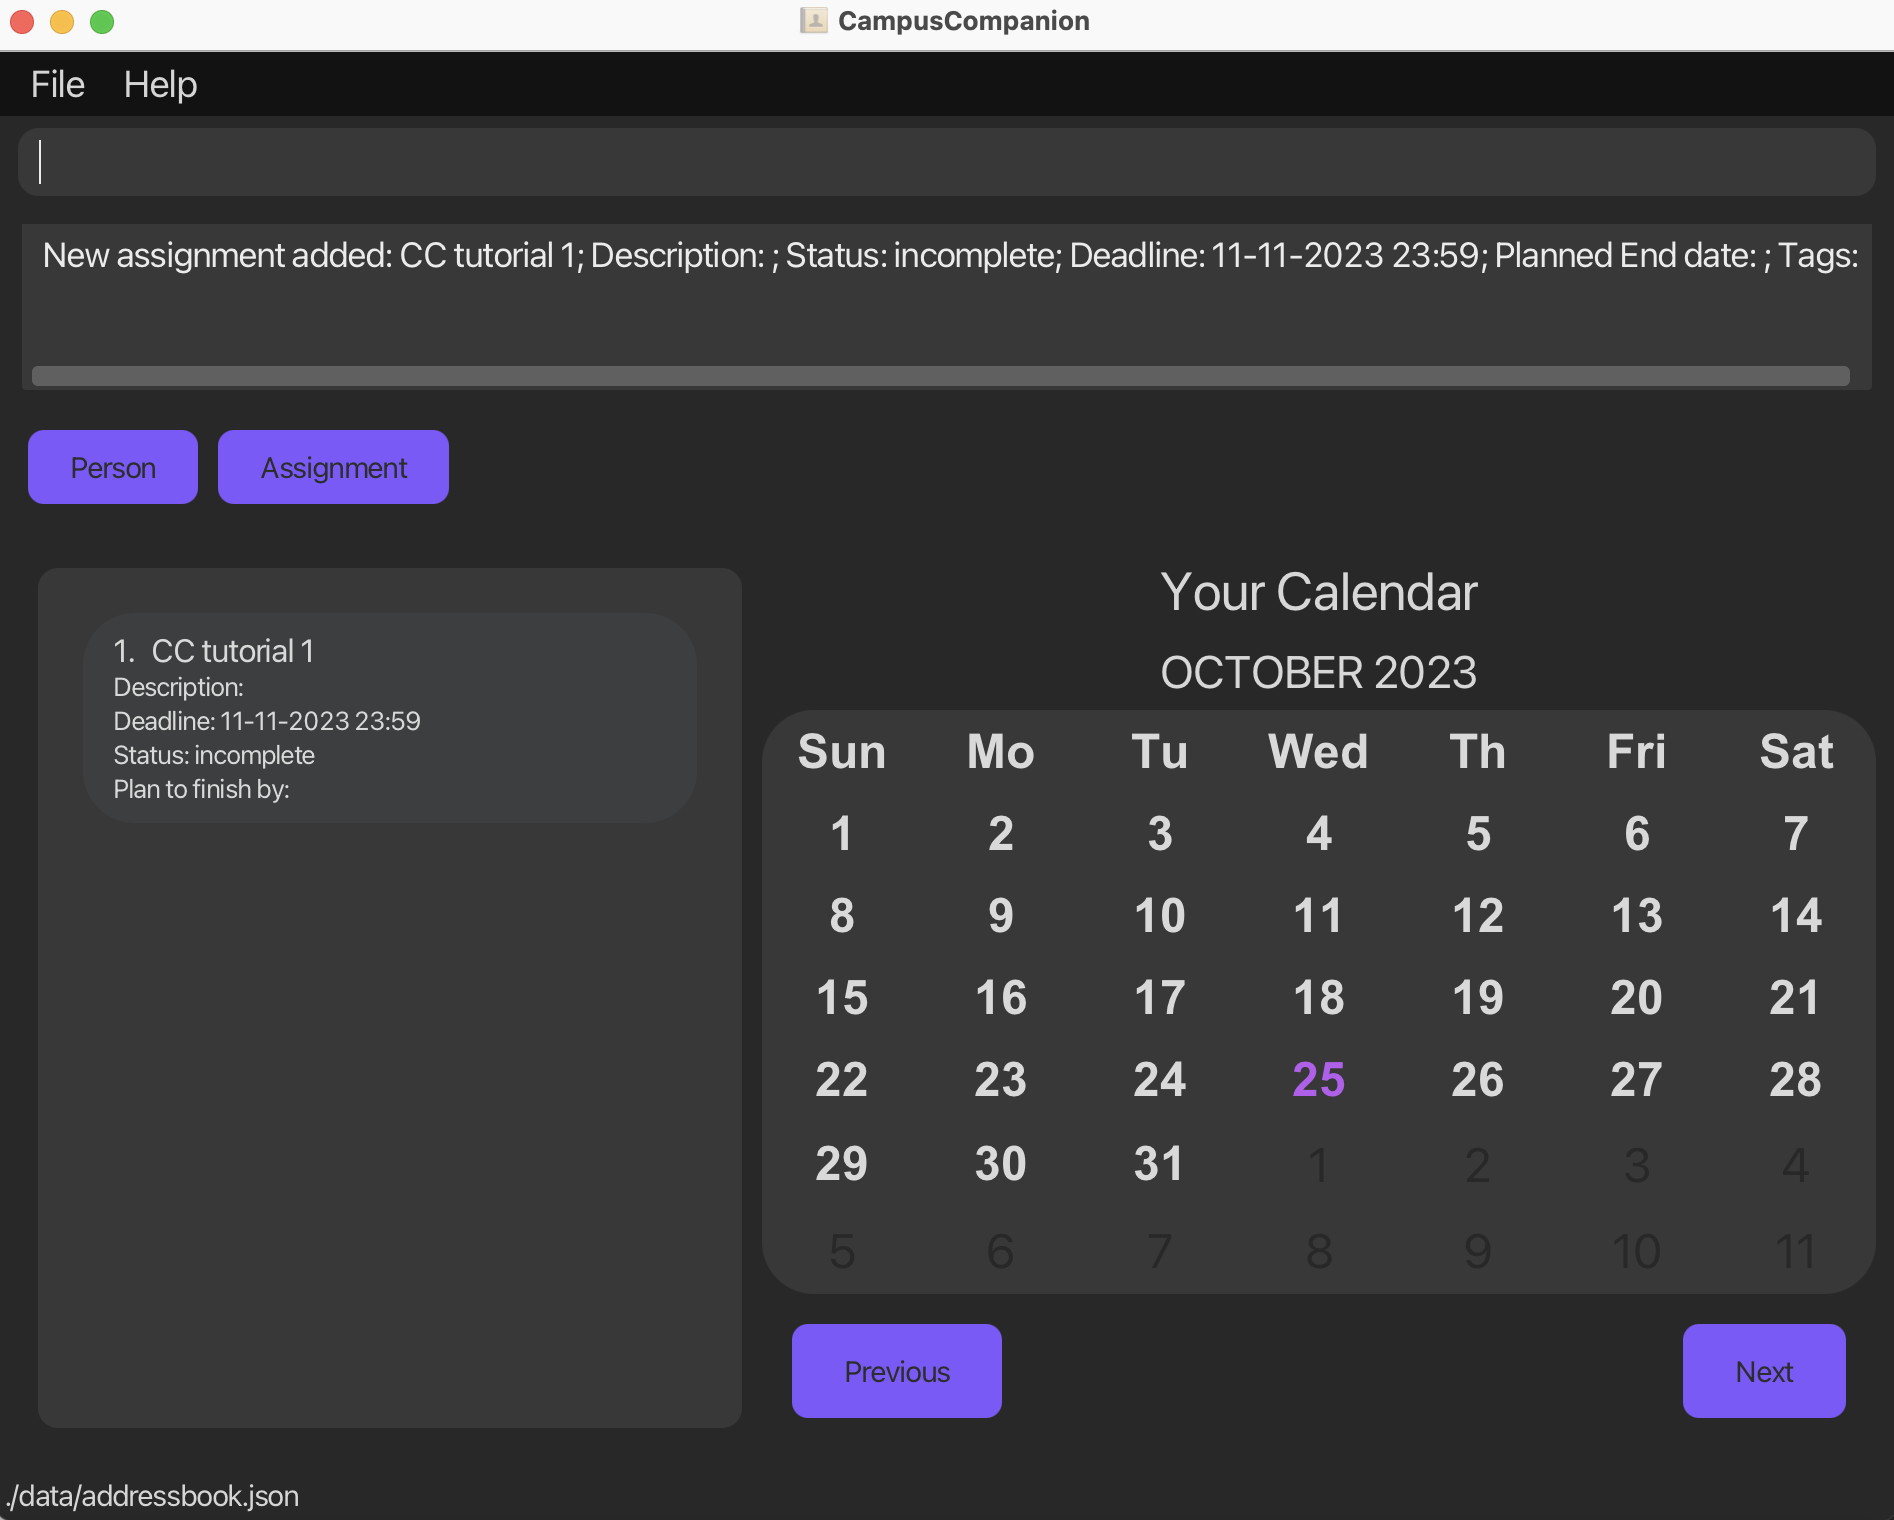
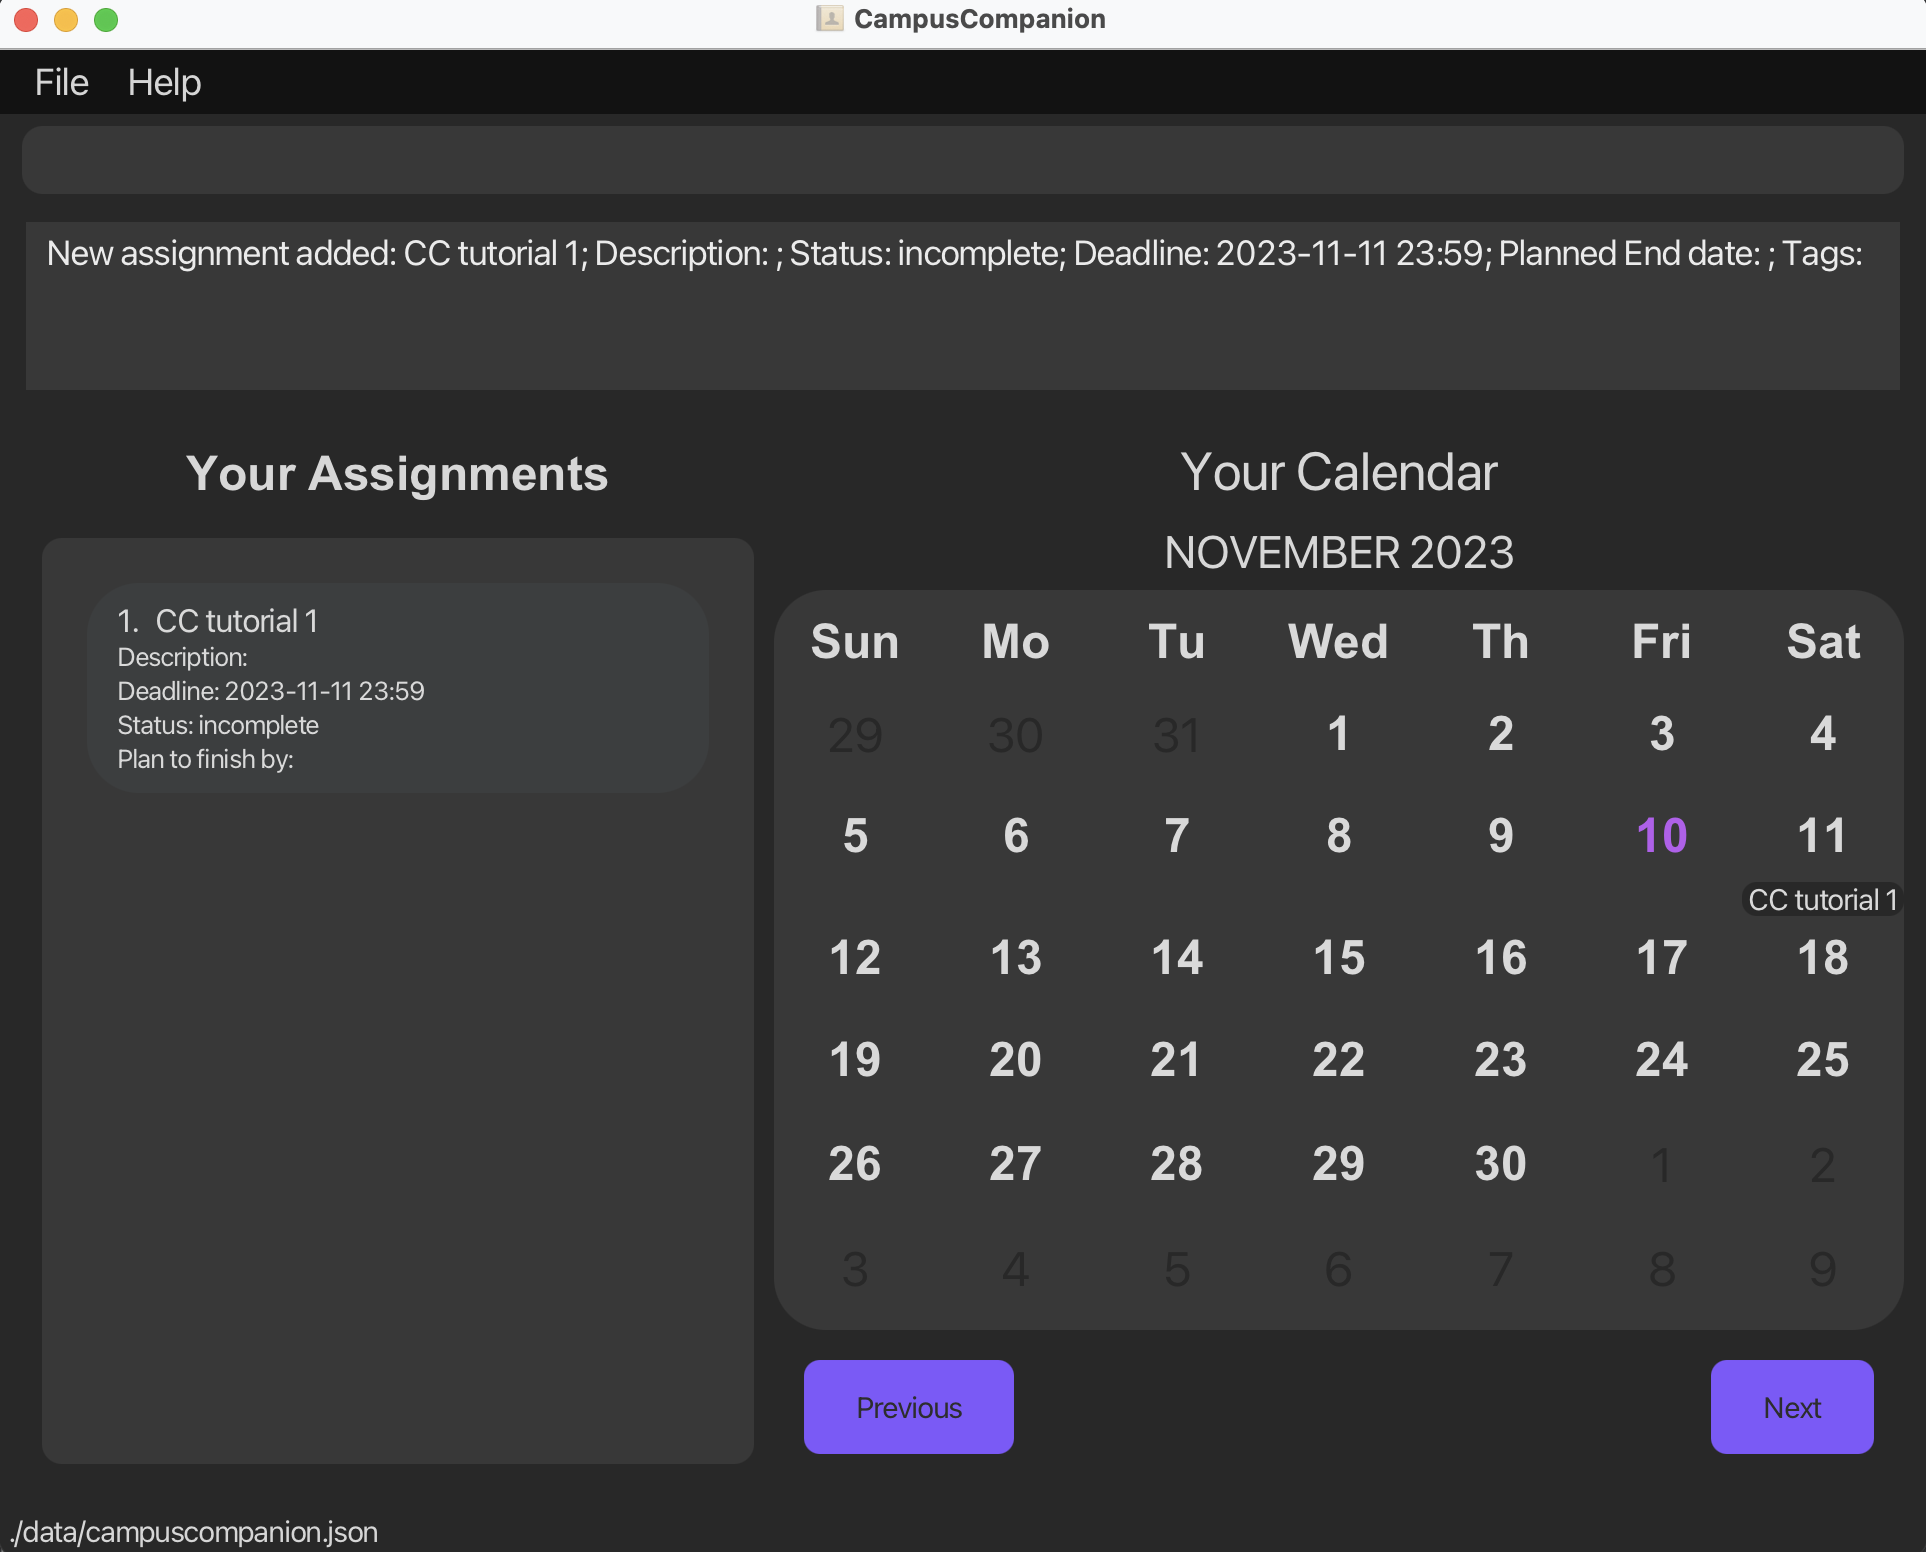
Change data/addressbook.json to campuscompanion.json, change UG new users images, to work on new user tutorial for internships next

diff --git a/docs/UserGuide.md b/docs/UserGuide.md
@@ -219,37 +219,42 @@ This is a tutorial for new CampusCompanion users. This tutorial will provide you
 command for both assignments and internships. 
 
 1. Launch CampusCompanion. You may refer to the instructions [here](#getting-started).
-2. Let's try **adding an assignment** to CampusCompanion. Enter the command
+2. Let's change the view to see assignments first. Enter the command `list-a`
+![NewUserTutListA.png](images%2FNewUserTutListA.png)
+3. Let's try **adding an assignment** to CampusCompanion. Enter the command
 `add-a n/CC tutorial 1 e/2023-11-11`
 ![NewUserTutAdd1.png](images%2FNewUserTutAdd1.png)
 
-3. Add a few more assignments. Try out filling optional parameters as well, etc
-`add-a n/CC optional 1 e/2023-11-11 16:00 d/try this out! s/complete p/2023-11-10 t/Optional`
+4. Add a few more assignments. Try out filling optional parameters as well, etc
+ - `add-a n/CS2100 Assignment 1 e/2023-12-12 13:00 t/Coding`
+ - `add-a n/CC optional 1 e/2023-11-11 16:00 d/try this out! s/complete p/2023-11-10 t/Optional`
    - Note: On adding assignments, they will automatically be sorted by their deadlines.
    The assignment due earliest will be first in the assignments list, which can be view using `list-a`.
 ![NewUserTutAddMoreAssgn.png](images%2FNewUserTutAddMoreAssgn.png)
 
-4. Let us try editing the description of `CC tutorial 1` to say `nice descriptive description!`.
-Input `list-a` to show the assignments list, then look for `CC tutorial 1`. In the example above, it is in index 2,
-so we do `edit-a i/2 d/nice descriptive description!`
+5. Let us try editing the description of `CC tutorial 1` to say `nice descriptive description!`.
+In the example above, `CC tutorial 1` is in index 2, so we do `edit-a i/2 d/nice descriptive description!`
 ![NewUserTutEdit.png](images%2FNewUserTutEdit.png)
 
-5. We are done with `CC tutorial 1`! Let's now mark it as complete. First, let's try using `find-a` to filter and narrow
+6. We are done with `CC tutorial 1`! Let's now mark it as complete. First, let's try using `find-a` to filter and narrow
 down the list. We can do `find-a tutorial` to filter the assignments list to show only assignments that
 contain `tutorial`.
 ![NewUserTutFind.png](images%2FNewUserTutFind.png)
 
-6. Then, we use the index shown in the list (in this case, 1) and do `mark-a 1` to mark the assignment as completed.
+7. Then, we use the index shown in the list (in this case, `CC tutorial 1` is at index 1) and do `mark-a 1` to mark the assignment as completed.
 ![NewUserTutMark.png](images%2FNewUserTutMark.png)
 
-7. To see all our assignments again, let's do `list-a`.
+8. To see all our assignments again, let's do `list-a`.
 ![NewUserTutList.png](images%2FNewUserTutList.png)
 
-8. Lastly, let's delete our `CC tutorial 1` as we no longer want to track it.
+9. Lastly for our assignments, let's delete our `CC tutorial 1` as we no longer want to track it.
 With reference the picture above, we will do `delete-a 2`.
 ![NewUserTutDelete.png](images%2FNewUserTutDelete.png)
 
-9. Congratulations! You are now ready to use CampusCompanion.
+10. Now, let's change the view to see internships. Enter the command `list-i`
+![NewUserTutListI.png](images%2FNewUserTutListI.png)
+11. Congratulations! You are now ready to use CampusCompanion.
+    (in progress)
 
 To view all our features, you may visit out [features section](#features).
 
